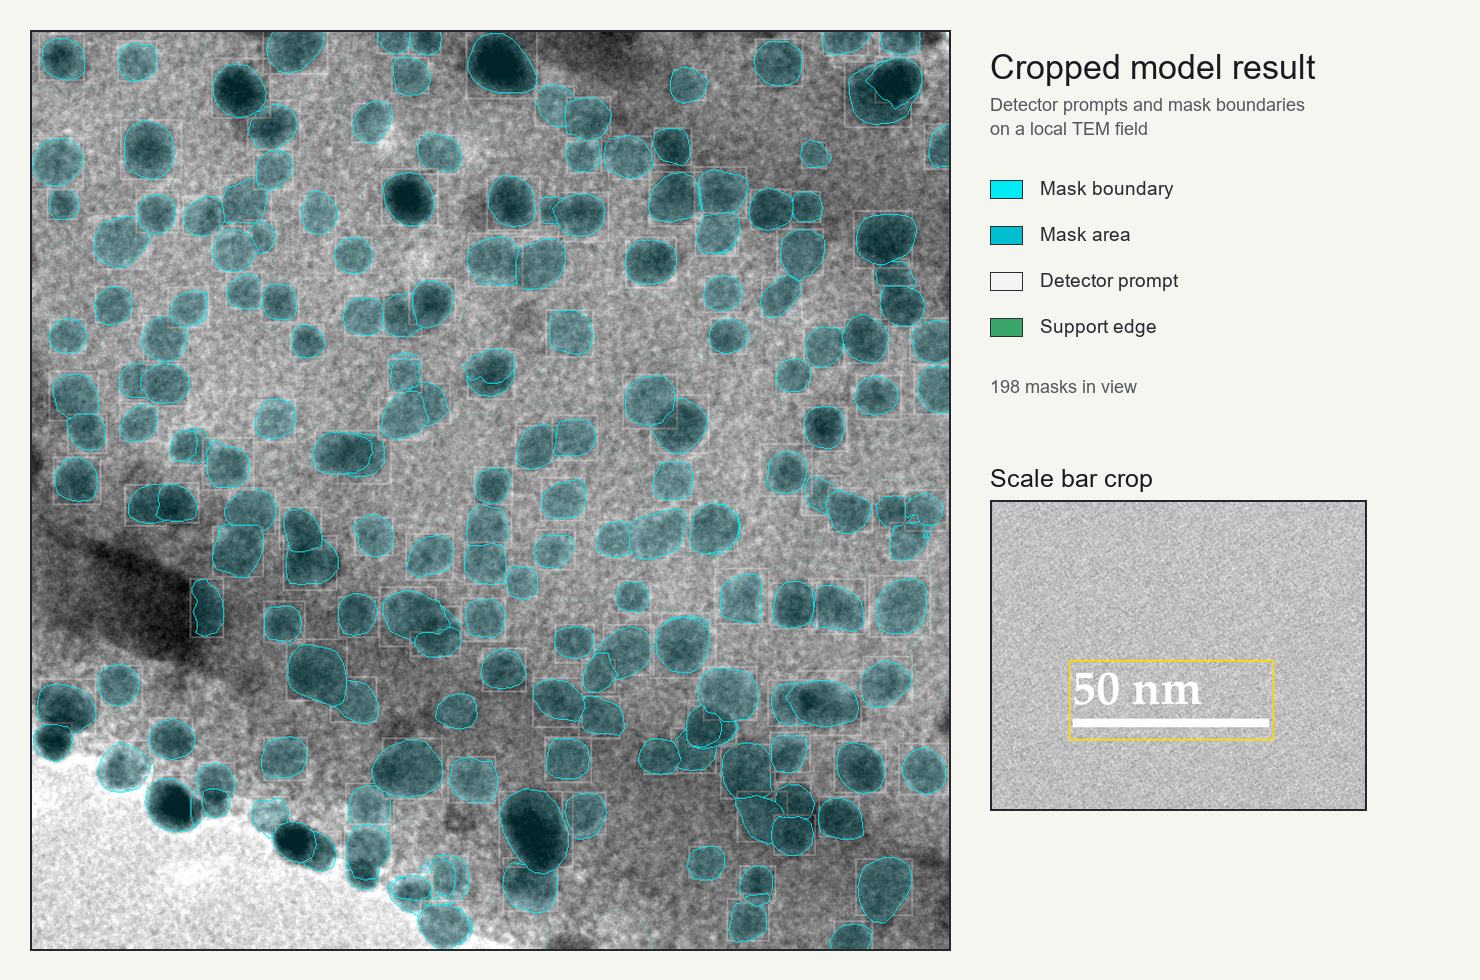
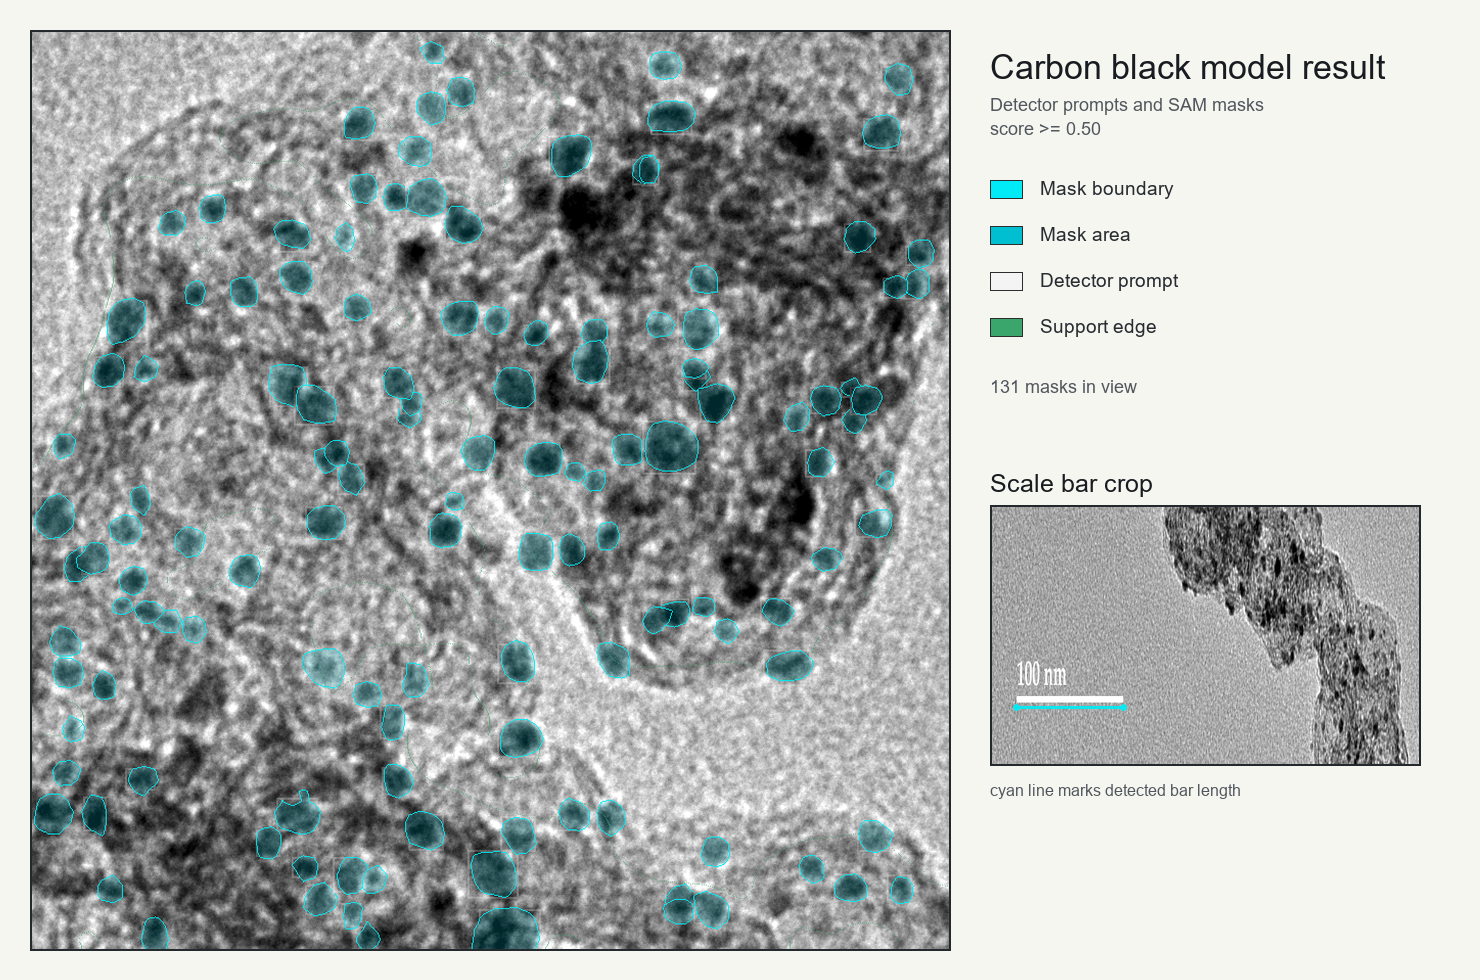
docs: clarify model-output preview source

diff --git a/README.md b/README.md
@@ -11,10 +11,10 @@ The runnable demo uses synthetic images. The repo keeps the engineering pieces t
 | Item | Summary |
 |---|---|
 | Domain | Catalyst TEM image analysis / scientific microscopy |
-| Public scope | Synthetic runnable data; one cropped model-result preview PNG |
+| Public scope | Synthetic runnable data; one cropped carbon-black model-result preview PNG |
 | Demonstrated skills | Python packaging, image analysis, segmentation workflow design, provenance, metric reporting, testing, release hygiene |
 | Outputs | Review overlays, JSON report, summary Markdown, morphology metrics |
-| Private research boundary | No source TEM/STEM images, private annotations, trained weights, checkpoints, inference JSON, or unpublished results included |
+| Private research boundary | No source TEM/STEM images, private annotations, trained weights, checkpoints, model-output files, or unpublished results included |
 
 ## What The Repo Includes
 
@@ -46,15 +46,15 @@ This repo excludes:
 - Private manifests, internal experiment outputs, cluster scripts, or unpublished research reports.
 - Code, data, images, README text, or weights copied from related projects.
 
-The runnable examples use synthetic images. The model-result preview is a cropped PNG. Source images, model-output files, annotation files, checkpoints, and private paths stay outside the public repo.
+The runnable examples use synthetic images. The model-result preview is one cropped PNG from a carbon-black field. Source images, model-output files, annotation files, checkpoints, and private paths stay outside the public repo.
 
 ## Example Outputs
 
 The runnable example uses synthetic images under `examples/synthetic_dataset` and writes results to `docs/assets/demo_run`.
 
-![Cropped model result](docs/assets/cropped_model_output_preview.png)
+![Cropped carbon black model result](docs/assets/cropped_model_output_preview.png)
 
-This preview comes from a private model-output rendering. The repo includes only the cropped PNG from that run. Source images, model-output files, annotation files, checkpoints, and private paths stay outside. Use it as a visual workflow preview, not a benchmark.
+In the preview, particle prompts and masks come from model-output records: detector boxes plus SAM mask polygons. The scale-bar inset is cropped from the same source image and marked by an automatic bar-length detector. The repo includes only the rendered PNG, not the source image, model-output files, annotation files, checkpoints, or private paths. Use the figure as a workflow preview, not a benchmark.
 
 The runtime writes:
 

diff --git a/docs/portfolio-notes.md b/docs/portfolio-notes.md
@@ -1,6 +1,6 @@
 # Portfolio Notes
 
-This repository is a public portfolio demo for Research Engineer, Materials AI, and Scientific ML review. The runnable workflow uses synthetic data. The repo also includes one cropped model-result preview PNG.
+This repository is a public portfolio demo for Research Engineer, Materials AI, and Scientific ML review. The runnable workflow uses synthetic data. The repo also includes one cropped carbon-black model-result preview PNG.
 
 ## What It Demonstrates
 

diff --git a/docs/publication-roadmap.md b/docs/publication-roadmap.md
@@ -5,7 +5,7 @@ This repository is a public portfolio demo. It can become a paper companion repo
 ## Current Public Demo Scope
 
 - Synthetic TEM-like runnable data.
-- One cropped model-result preview PNG.
+- One cropped carbon-black model-result preview PNG.
 - No raw research images.
 - No trained weights or checkpoints.
 - No private manifests or internal experiment records.